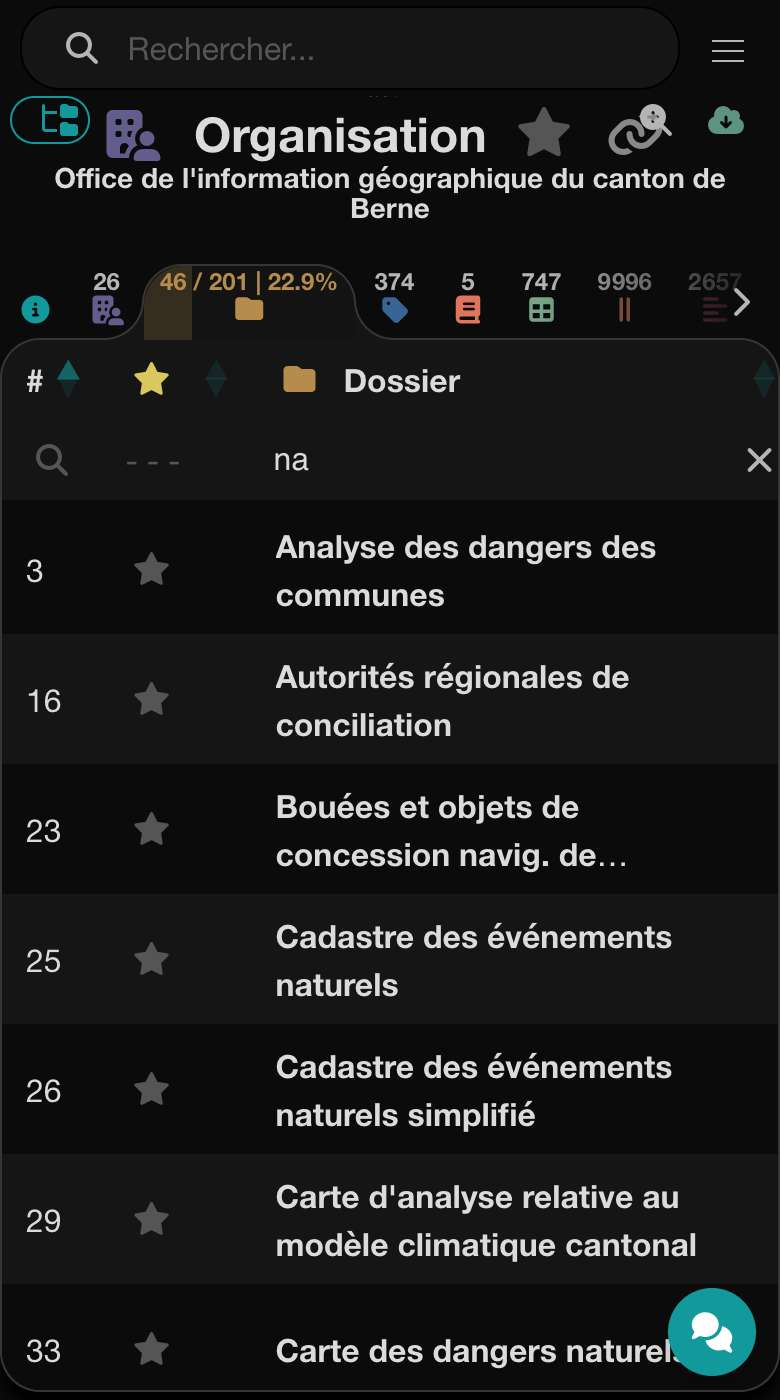
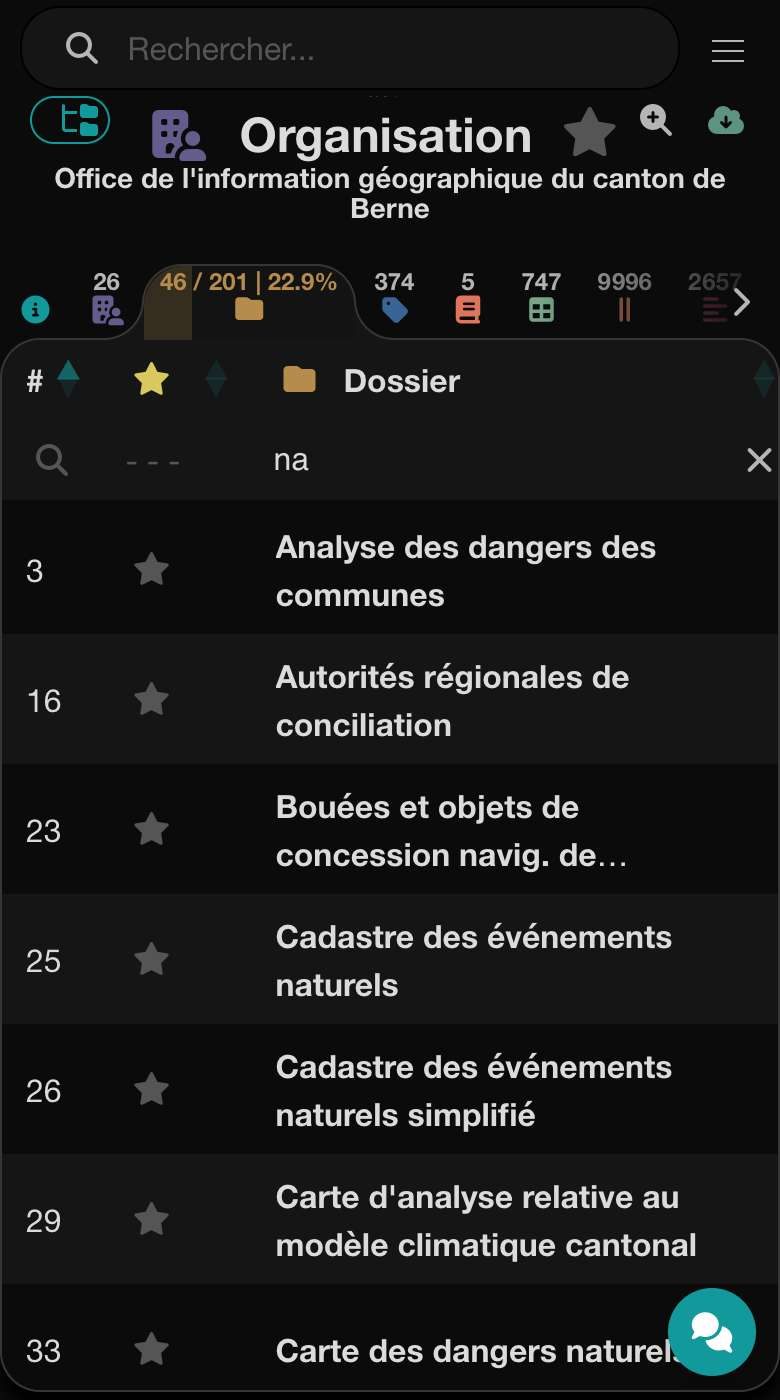
chore: update version to 0.21.4 (#137)
* fix: remove outdated mobile assets from about page

* fix: update interface images in README for consistency

* chore: update version to 0.21.4

Changed region(s): [[0.0, 0.0614, 0.8615, 0.1229]]

diff --git a/README.md b/README.md
@@ -23,8 +23,8 @@ datannur is a client-side data catalog designed to organize and explore datasets
 
 🚀 **[Try the live demo](https://dev.datannur.com/)**
 
-![datannur interface](https://raw.githubusercontent.com/datannur/datannur/main/public/assets/about-page/dossier-sitg-tab-dataset-dark.webp#gh-dark-mode-only)
-![datannur interface](https://raw.githubusercontent.com/datannur/datannur/main/public/assets/about-page/dossier-sitg-tab-dataset.webp#gh-light-mode-only)
+![datannur interface](https://raw.githubusercontent.com/datannur/datannur/main/public/assets/about-page/folder-page-folder-tab-dark.jpg#gh-dark-mode-only)
+![datannur interface](https://raw.githubusercontent.com/datannur/datannur/main/public/assets/about-page/folder-page-folder-tab.jpg#gh-light-mode-only)
 
 ## Documentation
 

diff --git a/CHANGELOG.md b/CHANGELOG.md
@@ -1,6 +1,6 @@
 # datannur
 
-## Unreleased
+## 0.21.4 (2026-05-07)
 
 - add: config-driven screenshot capture suite for about-page assets
 - change: use logo icon with background
